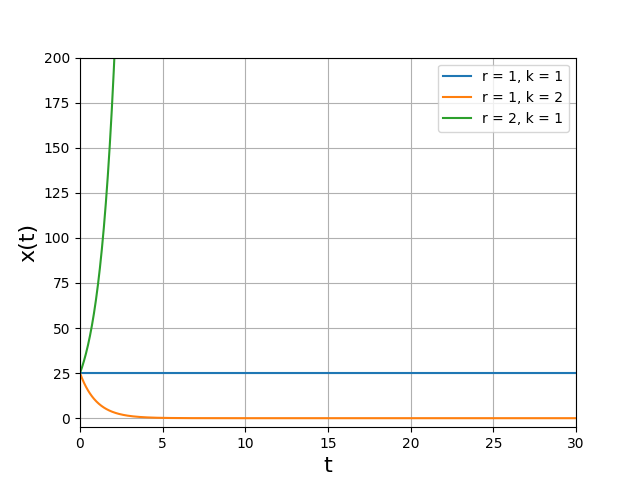
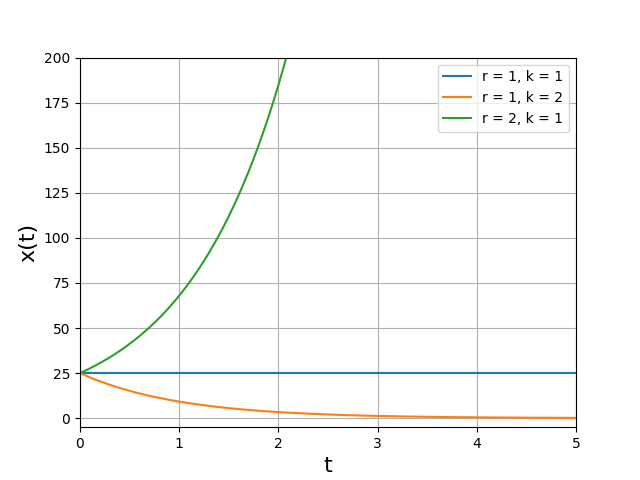
changed appearance 5cd

diff --git a/ODE.py b/ODE.py
@@ -270,8 +270,12 @@ def concentration(t, k, g):
 
 
 def concentration_time(t, k, g, g_func):
-    C = np.log(g_func(t, g, k))
-    return (np.exp(-k * t + C) - g_func(t, g, k)) / (-k)
+    # prevent RunTimeWarning (np.log(0))
+    if g_func(t, g, k) == 0:
+        return 0
+    else:
+        C = np.log(g_func(t, g, k))
+        return (np.exp(-k * t + C) - g_func(t, g, k)) / (-k)
 
 
 def g_func1(t, g, k):
@@ -458,12 +462,12 @@ plt.savefig("5k.png")
 plt.figure()
 values = [(1, 1), (1, 2), (2, 1)]
 N_i = 25
-t_list = np.linspace(0, 30, 1000)
+t_list = np.linspace(0, 5, 1000)
 for r, k in values:
     x_list = [rabbit_solution(r, k, t, N_i) for t in t_list]
     plt.plot(t_list, x_list, label=f"r = {r}, k = {k}")
 plt.grid(visible=True)
-plt.xlim(0, 30)
+plt.xlim(0, 5)
 plt.ylim(-5, 200)
 
 plt.xlabel("t", fontsize=16)
